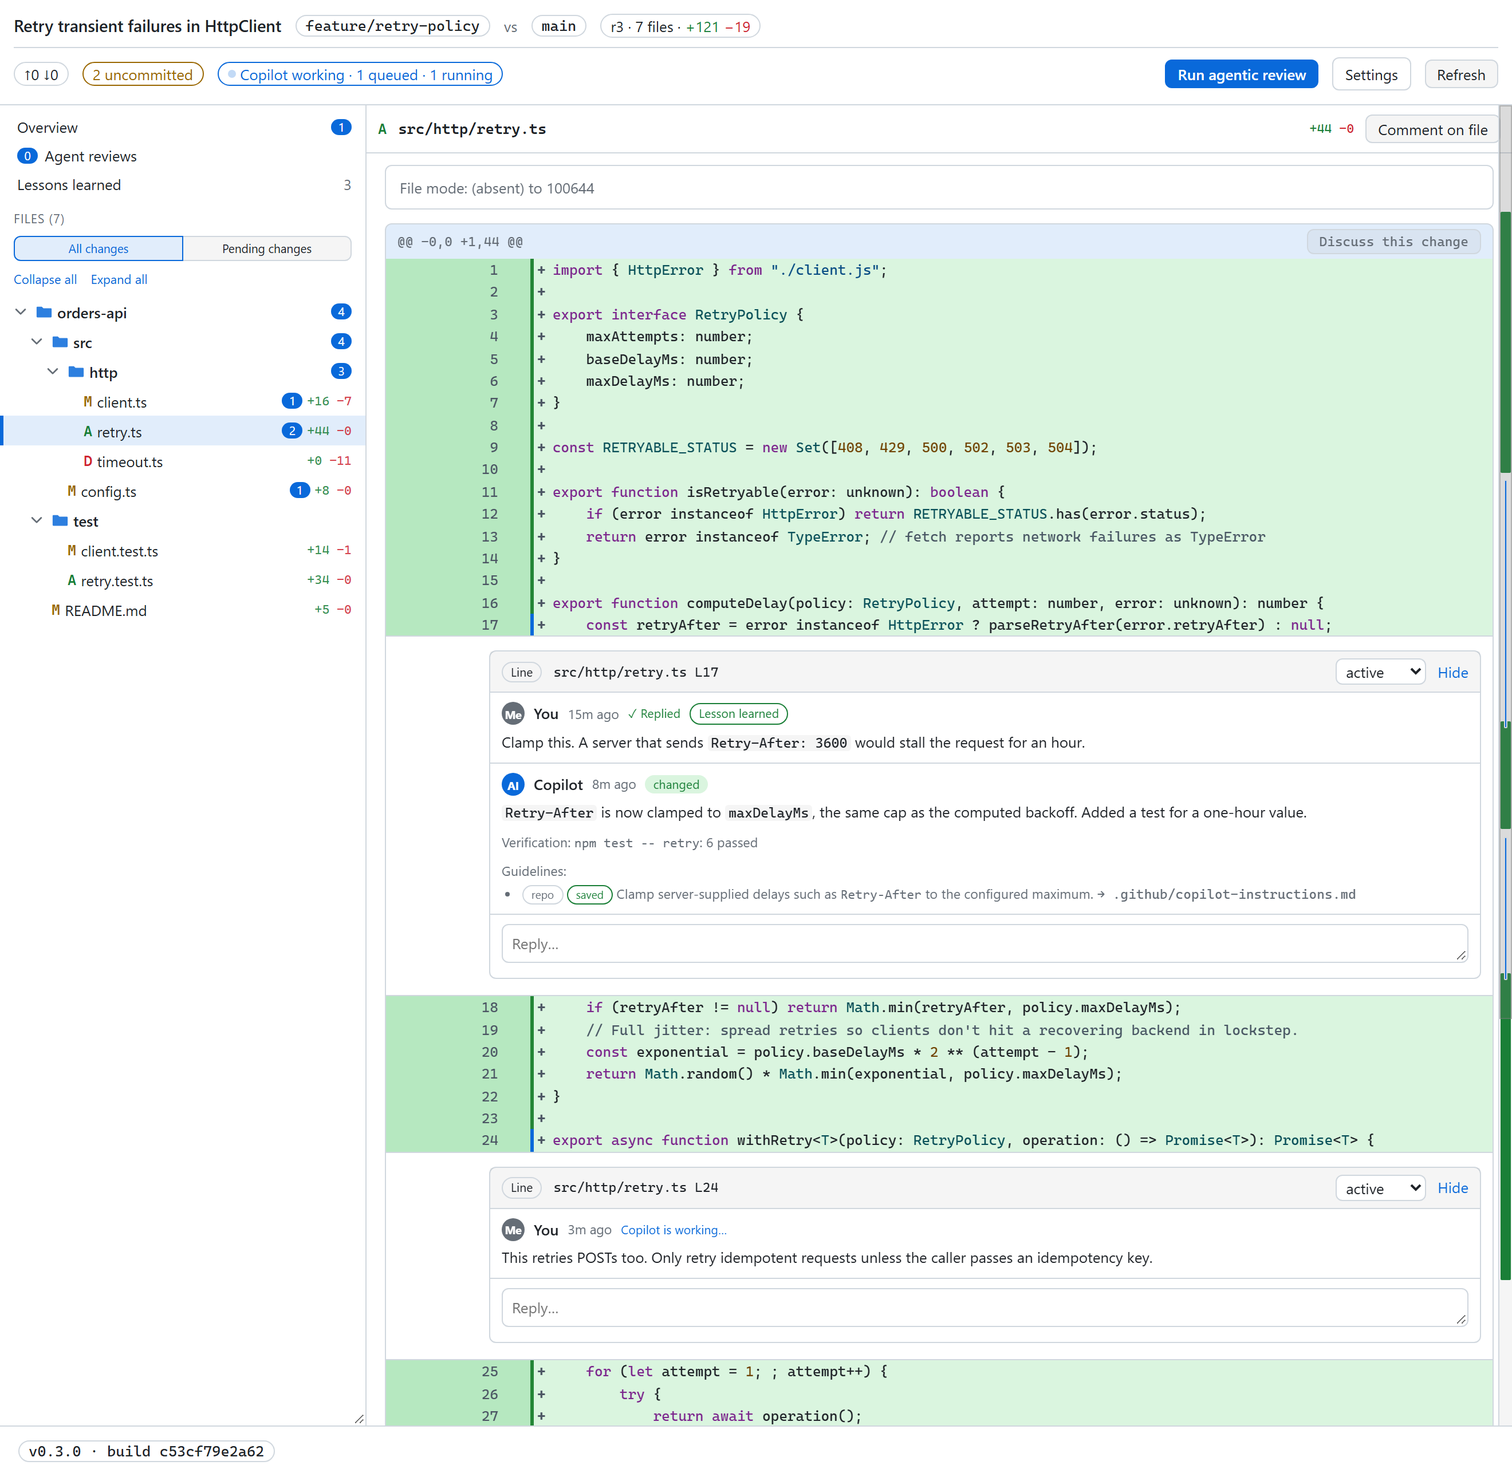
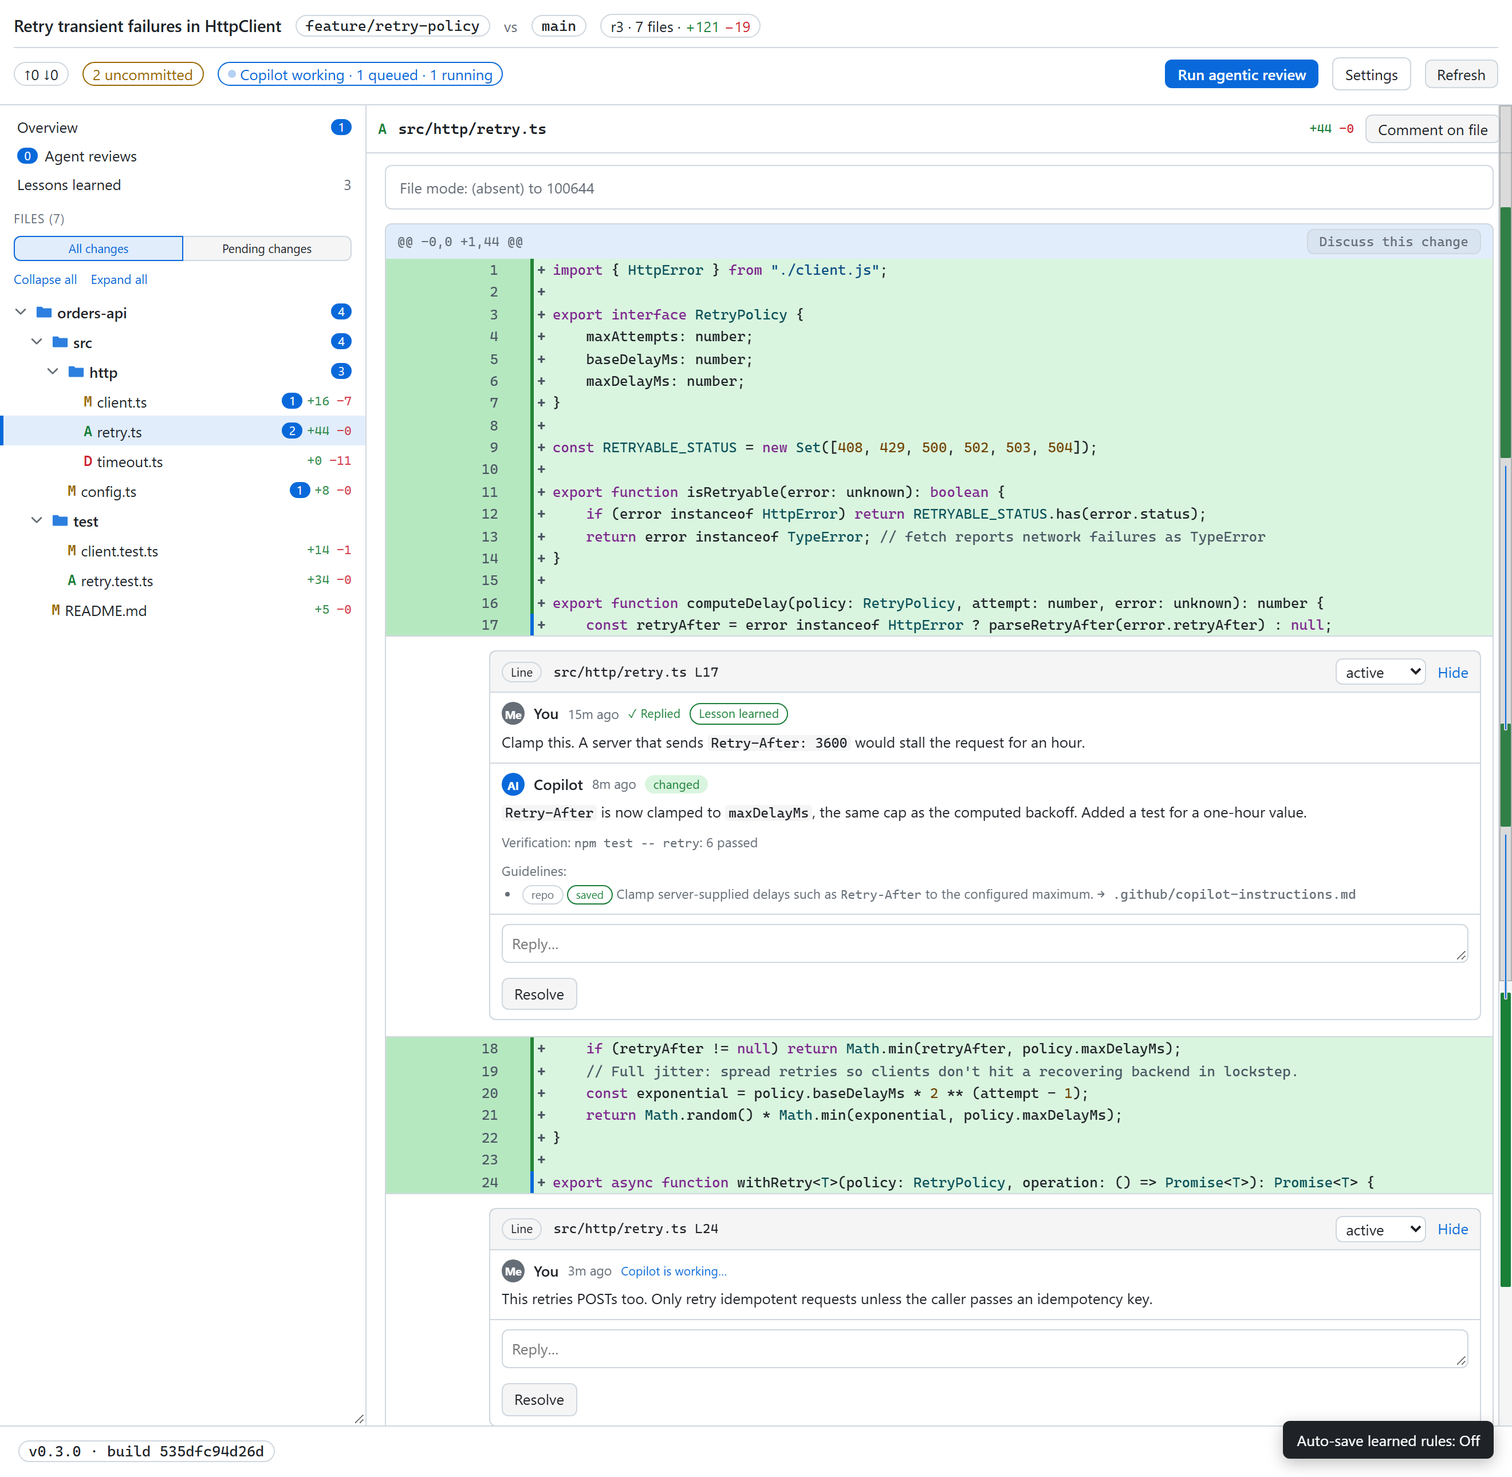
Add Resolve and Reactivate buttons under comment threads (#77)
* Add Resolve and Reactivate buttons under comment threads

Each thread now shows a Resolve button under the reply box while it is active and a Reactivate button once it is resolved, won't fix, or closed, so the status can be changed without the status menu.

Fixes #50

* Keep thread status guard through reload and respect moved focus

Hold the pending status guard until loadState finishes so an intervening render cannot re-enable stale controls, skip focus restoration when the user moved focus during the save, and fall back to the Active threads jump link when a placed thread is reactivated from Overview.

---------

Changed region(s): [[0.2485, 0.6512, 1.0, 0.9922], [0.9939, 0.3101, 1.0, 0.3411]]

diff --git a/extensions/self-review/src/web/app.ts b/extensions/self-review/src/web/app.ts
@@ -307,6 +307,8 @@ type State = {
     reviewSkillsAvailable: boolean;
     skillOverrides: Map<string, string[]>;
     approving: Set<string>;
+    // Thread ID to the status being saved for it.
+    statusUpdates: Map<string, ThreadStatus>;
 };
 
 function isRecord(value: unknown): value is Record<string, unknown> {
@@ -646,6 +648,7 @@ const state: State = {
     reviewSkillsAvailable: false,
     skillOverrides: new Map(),
     approving: new Set(),
+    statusUpdates: new Map(),
 };
 
 const FOLDER_VIEW_ROW_BUDGET = 3000;
@@ -2691,7 +2694,7 @@ function threadHtml(t: ReviewThread, { showLocation = false }: { showLocation?: 
         + (outdated ? `<span class="badge outdated" title="The commented code changed or was removed">Outdated</span>` : "")
         + (notInDiff ? `<span class="badge outdated" title="This location is not part of the current diff">Not in diff</span>` : "")
         + (t.status !== "active" ? `<span class="badge st-${t.status}">${t.status === "wontfix" ? "won't fix" : t.status}</span>` : "")
-        + `<select data-action="status" data-thread="${esc(t.threadId)}" title="Thread status">${options}</select>`
+        + `<select data-action="status" data-thread="${esc(t.threadId)}" title="Thread status"${state.statusUpdates.has(t.threadId) ? " disabled" : ""}>${options}</select>`
         + (collapsed ? pending.map(deliveryHtml).join("") : "")
         + (collapsed && hasDraftReply(t.threadId) ? `<span class="badge">Unposted reply</span>` : "")
         + `<button class="link" data-action="toggle" data-thread="${esc(t.threadId)}" aria-expanded="${!collapsed}">${collapsed ? "Show" : "Hide"}</button>`
@@ -2706,7 +2709,39 @@ function threadHtml(t: ReviewThread, { showLocation = false }: { showLocation?: 
         ? `<div class="finding-actions"><button class="primary" data-action="approve-finding" data-thread="${esc(t.threadId)}" title="${esc(staleFinding ? "Review changed; rerun before approving" : approvalIssue || "Send this suggestion to the coding agent for implementation")}"${t.agentReview.approvalMessageId || staleFinding || approvalIssue || t.status !== "active" || state.approving.has(t.threadId) ? " disabled" : ""}>${t.agentReview.approvalMessageId ? "Approved" : "Approve"}</button>`
             + `<button data-action="discuss-finding" data-thread="${esc(t.threadId)}">Discuss</button></div>`
         : "";
-    return `<div class="thread${collapsed ? " collapsed" : ""}" data-thread-id="${esc(t.threadId)}">${head}<div class="thread-body">${original}${t.messages.map((m, i) => messageHtml(m) + (i === 0 ? findingEvidenceHtml(t.agentReview) : "")).join("")}${actions}${reply}</div></div>`;
+    return `<div class="thread${collapsed ? " collapsed" : ""}" data-thread-id="${esc(t.threadId)}">${head}<div class="thread-body">${original}${t.messages.map((m, i) => messageHtml(m) + (i === 0 ? findingEvidenceHtml(t.agentReview) : "")).join("")}${actions}${reply}${threadStatusActionHtml(t)}</div></div>`;
+}
+
+// One-click Resolve for an active thread or Reactivate for any other status; the header dropdown keeps the rest.
+function threadStatusActionHtml(t: ReviewThread): string {
+    const pending = state.statusUpdates.get(t.threadId);
+    const resolve = t.status === "active";
+    const target: ThreadStatus = resolve ? "resolved" : "active";
+    const label = pending ? (pending === "active" ? "Reactivating…" : "Resolving…") : resolve ? "Resolve" : "Reactivate";
+    const title = resolve ? "Mark this thread resolved" : "Reopen this thread as active";
+    return `<div class="thread-status-actions"><button type="button" data-action="thread-status" data-thread="${esc(t.threadId)}" data-status="${target}" title="${title}"`
+        + `${pending ? ` disabled aria-busy="true"` : ""}>${label}</button></div>`;
+}
+
+// Saves a thread status through the same endpoint as the header dropdown. A failure is reported and the
+// reloaded state keeps the thread's previous status.
+async function setThreadStatus(threadId: string, status: ThreadStatus): Promise<void> {
+    if (state.statusUpdates.has(threadId)) return;
+    state.statusUpdates.set(threadId, status);
+    render();
+    try {
+        try {
+            await api("POST", `threads/${encodeURIComponent(threadId)}/status`, { status });
+            if (status !== "active") state.expanded.delete(threadId);
+        } catch (err: unknown) {
+            toast(errorMessage(err), true);
+        }
+        // Hold the guard until the reload, so a render before it cannot re-enable the stale controls.
+        await loadState().catch((err: unknown) => toast(errorMessage(err), true));
+    } finally {
+        state.statusUpdates.delete(threadId);
+        render();
+    }
 }
 
 // Explains an empty diff and, for pending changes, offers the way back to the full branch diff.
@@ -3313,6 +3348,20 @@ async function onClick(e: MouseEvent): Promise<void> {
                 }
                 break;
             }
+            case "thread-status": {
+                const id = value("thread");
+                const status = value("status");
+                if (!id || !isThreadStatus(status)) break;
+                await setThreadStatus(id, status);
+                // Re-rendering dropped focus from the button. Put it back on the thread unless the user moved it
+                // while the save was pending. A placed thread reactivated from Overview becomes an Active threads link.
+                if (document.activeElement && document.activeElement !== document.body) break;
+                const thread = `[data-thread-id="${CSS.escape(id)}"]`;
+                (document.querySelector<HTMLElement>(`${thread}:not(.collapsed) [data-action="thread-status"]`)
+                    ?? document.querySelector<HTMLElement>(`${thread} [data-action="toggle"]`)
+                    ?? document.querySelector<HTMLElement>(`.list-row [data-action="jump"][data-thread="${CSS.escape(id)}"]`))?.focus();
+                break;
+            }
             case "discuss-description":
                 focusComposer("overview:new");
                 break;
@@ -3615,14 +3664,7 @@ async function onChange(e: Event): Promise<void> {
     if (el.dataset?.action !== "status") return;
     const threadId = el.dataset.thread;
     if (!threadId || !isThreadStatus(el.value)) return;
-    try {
-        await api("POST", `threads/${encodeURIComponent(threadId)}/status`, { status: el.value });
-        if (el.value !== "active") state.expanded.delete(threadId);
-        await loadState();
-    } catch (err: unknown) {
-        toast(errorMessage(err), true);
-        await loadState().catch(() => undefined);
-    }
+    await setThreadStatus(threadId, el.value);
 }
 
 function updateReviewCommands(textarea: HTMLTextAreaElement): void {

diff --git a/extensions/self-review/dist/web/app.js b/extensions/self-review/dist/web/app.js
@@ -325,6 +325,7 @@ const state = {
     reviewSkillsAvailable: false,
     skillOverrides: new Map(),
     approving: new Set(),
+    statusUpdates: new Map(),
 };
 const FOLDER_VIEW_ROW_BUDGET = 3000;
 const settingsApi = createSettingsApi((method, path, body) => api(method, path, body));
@@ -2449,7 +2450,7 @@ function threadHtml(t, { showLocation = false } = {}) {
         + (outdated ? `<span class="badge outdated" title="The commented code changed or was removed">Outdated</span>` : "")
         + (notInDiff ? `<span class="badge outdated" title="This location is not part of the current diff">Not in diff</span>` : "")
         + (t.status !== "active" ? `<span class="badge st-${t.status}">${t.status === "wontfix" ? "won't fix" : t.status}</span>` : "")
-        + `<select data-action="status" data-thread="${esc(t.threadId)}" title="Thread status">${options}</select>`
+        + `<select data-action="status" data-thread="${esc(t.threadId)}" title="Thread status"${state.statusUpdates.has(t.threadId) ? " disabled" : ""}>${options}</select>`
         + (collapsed ? pending.map(deliveryHtml).join("") : "")
         + (collapsed && hasDraftReply(t.threadId) ? `<span class="badge">Unposted reply</span>` : "")
         + `<button class="link" data-action="toggle" data-thread="${esc(t.threadId)}" aria-expanded="${!collapsed}">${collapsed ? "Show" : "Hide"}</button>`
@@ -2464,7 +2465,41 @@ function threadHtml(t, { showLocation = false } = {}) {
         ? `<div class="finding-actions"><button class="primary" data-action="approve-finding" data-thread="${esc(t.threadId)}" title="${esc(staleFinding ? "Review changed; rerun before approving" : approvalIssue || "Send this suggestion to the coding agent for implementation")}"${t.agentReview.approvalMessageId || staleFinding || approvalIssue || t.status !== "active" || state.approving.has(t.threadId) ? " disabled" : ""}>${t.agentReview.approvalMessageId ? "Approved" : "Approve"}</button>`
             + `<button data-action="discuss-finding" data-thread="${esc(t.threadId)}">Discuss</button></div>`
         : "";
-    return `<div class="thread${collapsed ? " collapsed" : ""}" data-thread-id="${esc(t.threadId)}">${head}<div class="thread-body">${original}${t.messages.map((m, i) => messageHtml(m) + (i === 0 ? findingEvidenceHtml(t.agentReview) : "")).join("")}${actions}${reply}</div></div>`;
+    return `<div class="thread${collapsed ? " collapsed" : ""}" data-thread-id="${esc(t.threadId)}">${head}<div class="thread-body">${original}${t.messages.map((m, i) => messageHtml(m) + (i === 0 ? findingEvidenceHtml(t.agentReview) : "")).join("")}${actions}${reply}${threadStatusActionHtml(t)}</div></div>`;
+}
+// One-click Resolve for an active thread or Reactivate for any other status; the header dropdown keeps the rest.
+function threadStatusActionHtml(t) {
+    const pending = state.statusUpdates.get(t.threadId);
+    const resolve = t.status === "active";
+    const target = resolve ? "resolved" : "active";
+    const label = pending ? (pending === "active" ? "Reactivating…" : "Resolving…") : resolve ? "Resolve" : "Reactivate";
+    const title = resolve ? "Mark this thread resolved" : "Reopen this thread as active";
+    return `<div class="thread-status-actions"><button type="button" data-action="thread-status" data-thread="${esc(t.threadId)}" data-status="${target}" title="${title}"`
+        + `${pending ? ` disabled aria-busy="true"` : ""}>${label}</button></div>`;
+}
+// Saves a thread status through the same endpoint as the header dropdown. A failure is reported and the
+// reloaded state keeps the thread's previous status.
+async function setThreadStatus(threadId, status) {
+    if (state.statusUpdates.has(threadId))
+        return;
+    state.statusUpdates.set(threadId, status);
+    render();
+    try {
+        try {
+            await api("POST", `threads/${encodeURIComponent(threadId)}/status`, { status });
+            if (status !== "active")
+                state.expanded.delete(threadId);
+        }
+        catch (err) {
+            toast(errorMessage(err), true);
+        }
+        // Hold the guard until the reload, so a render before it cannot re-enable the stale controls.
+        await loadState().catch((err) => toast(errorMessage(err), true));
+    }
+    finally {
+        state.statusUpdates.delete(threadId);
+        render();
+    }
 }
 // Explains an empty diff and, for pending changes, offers the way back to the full branch diff.
 function emptyDiffHtml() {
@@ -3087,6 +3122,22 @@ async function onClick(e) {
                 }
                 break;
             }
+            case "thread-status": {
+                const id = value("thread");
+                const status = value("status");
+                if (!id || !isThreadStatus(status))
+                    break;
+                await setThreadStatus(id, status);
+                // Re-rendering dropped focus from the button. Put it back on the thread unless the user moved it
+                // while the save was pending. A placed thread reactivated from Overview becomes an Active threads link.
+                if (document.activeElement && document.activeElement !== document.body)
+                    break;
+                const thread = `[data-thread-id="${CSS.escape(id)}"]`;
+                (document.querySelector(`${thread}:not(.collapsed) [data-action="thread-status"]`)
+                    ?? document.querySelector(`${thread} [data-action="toggle"]`)
+                    ?? document.querySelector(`.list-row [data-action="jump"][data-thread="${CSS.escape(id)}"]`))?.focus();
+                break;
+            }
             case "discuss-description":
                 focusComposer("overview:new");
                 break;
@@ -3422,16 +3473,7 @@ async function onChange(e) {
     const threadId = el.dataset.thread;
     if (!threadId || !isThreadStatus(el.value))
         return;
-    try {
-        await api("POST", `threads/${encodeURIComponent(threadId)}/status`, { status: el.value });
-        if (el.value !== "active")
-            state.expanded.delete(threadId);
-        await loadState();
-    }
-    catch (err) {
-        toast(errorMessage(err), true);
-        await loadState().catch(() => undefined);
-    }
+    await setThreadStatus(threadId, el.value);
 }
 function updateReviewCommands(textarea) {
     const menu = textarea.closest(".composer")?.querySelector(".review-commands");

diff --git a/extensions/self-review/dist/web/styles.css b/extensions/self-review/dist/web/styles.css
@@ -552,6 +552,7 @@ pre {
 .composer .bar .hint { flex: 1; color: var(--mr-muted); font-size: 0.85em; }
 .composer .err { color: var(--mr-red); font-size: 0.88em; margin-top: 4px; }
 .composer .label { font-size: 0.88em; color: var(--mr-muted); margin-bottom: 4px; }
+.thread-status-actions { display: flex; padding: 0 10px 8px; }
 .review-commands:not([hidden]) { display: grid; gap: 2px; margin-top: 4px; }
 .review-commands button { text-align: left; }
 .review-commands button.selected { border-color: var(--mr-accent); }

diff --git a/extensions/self-review/web/styles.css b/extensions/self-review/web/styles.css
@@ -552,6 +552,7 @@ pre {
 .composer .bar .hint { flex: 1; color: var(--mr-muted); font-size: 0.85em; }
 .composer .err { color: var(--mr-red); font-size: 0.88em; margin-top: 4px; }
 .composer .label { font-size: 0.88em; color: var(--mr-muted); margin-bottom: 4px; }
+.thread-status-actions { display: flex; padding: 0 10px 8px; }
 .review-commands:not([hidden]) { display: grid; gap: 2px; margin-top: 4px; }
 .review-commands button { text-align: left; }
 .review-commands button.selected { border-color: var(--mr-accent); }

diff --git a/README.md b/README.md
@@ -120,7 +120,7 @@ Changed images get a visual diff. Compare **Before** and **After** side by side,
 The command prompts live in [`/explain`](extensions/self-review/review-commands/explain/SKILL.md) and [`/learn`](extensions/self-review/review-commands/learn/SKILL.md). The build bundles these Markdown files, and Self-Review loads the applicable sections when delivering a command.
 - **Refresh.** Open panels wait for a quiet interval after relevant checkout events before automatically capturing a new revision, whether the changes come from an agent, an editor, or Git. Git-ignored output does not restart this interval. If relevant checkout activity is detected before the new revision is published, the last good revision stays visible and the capture is retried once activity settles. Refresh progress and errors appear in the fixed bottom status bar; long errors remain contained there with **Retry** available. The provider watches the working tree and relevant Git metadata (including linked-worktree HEAD/index, shared refs, and submodules) and stops watching when the panel closes. The uncommitted count skips files Git reports as modified only because of stale index metadata, without rewriting the index. Scope, base, filters, threads, and composer text stay intact. In-progress file, line, and change comments stay visible against their original revision, even if a file leaves the diff, while the refreshed diff accepts new comments on the same lines. Pinned comment text and its original location survive reloads and scope switches. Full-file selections outside saved hunks recover their original content from the saved diff and immutable base. Threads follow their code when lines shift; if the code is gone, the original snippet is marked outdated, not resolved. **Refresh** remains available while changes are ongoing or if watching fails; watcher errors are logged.
   Unposted replies stay with their threads, even when the original code becomes outdated. If a thread is outside the current view, choose **Resume reply** to return to it.
-- **Statuses.** Threads are active, resolved, won't fix, or closed. Collapse or expand any thread without changing its status or losing its replies. You decide when something is resolved, or tell the agent to resolve threads it has addressed.
+- **Statuses.** Threads are active, resolved, won't fix, or closed. Click **Resolve** under an active thread's reply box to resolve it, or **Reactivate** under a resolved, won't fix, or closed thread to make it active again; the button shows progress while saving and reports a failure without changing the status. Use the status dropdown in the thread header for won't fix and closed. Collapse or expand any thread without changing its status or losing its replies. You decide when something is resolved, or tell the agent to resolve threads it has addressed.
 - **Review controls.** The revision badge sits with the review title, branch, and base; Git state and Copilot status follow. When GitHub CLI finds one open pull request for the reviewed branch, the header links to its reported URL; no link appears without a unique matching PR. The header offers **Run agentic review** and a compact **Settings** menu for agent-review and manual-review settings. Delivery mode, auto-save status, and draft submission remain visible below. Scope controls sit above **Files** in the sidebar. The **Agent reviews** view also keeps its **Run agentic review** action.
 - **Agentic review.** Enter two to four reviewers: exact model IDs available to your session, or `copilot-fusion`. Without saved defaults or a previous run, the dialog suggests `gpt-6-astra`, `gpt-6.1-sol`, and `copilot-fusion`; edit them freely, and nothing runs until you click **Run review**. Choose review, simplification, or both. Optionally add a goal, acceptance criteria, spec reference, or review guidance. The owning conversation launches independent read-only reviewers using those models; this consumes credits and requires model-selectable subagent support. Models are never silently substituted: unavailable models and failed reviews are shown explicitly. Each reviewer can report up to 20 findings labelled with its model, category, severity, and assessment. **Approve** sends a confirmed, actionable finding to the coding agent for implementation; **Discuss** opens its reply box without requesting a fix. Manual review remains available throughout.
 - **Agent review defaults.** **Settings → Agent review settings** opens a configuration-only dialog with **General** (models, focus, guidance, user defaults) and **Review skills** tabs. It has no Run button: use **Run agentic review** in the header or **Agent reviews** view. **Save defaults** saves models, focus, and guidance for your user across repositories without starting a review. Enable **Run with saved defaults without asking again** for one-click review of the current scope and revision; opening a canvas never starts work. A previously saved single-model default is preserved but opens the dialog so you can select another reviewer. The Settings menu always lets you change the choices or turn confirmation back on. Saved guidance applies to every repository, so keep repository-specific acceptance criteria in a one-off run. Defaults live under `agentReview` in `~/.copilot/extension-data/self-review/settings.json`, outside the checkout. The `get_agent_review_settings` and `set_agent_review_settings` canvas actions also support explicit preconfiguration; `run_agent_review` with `useDefaults: true` reuses valid defaults without another model-selection question. Host permission prompts and approval before fixes still apply.
